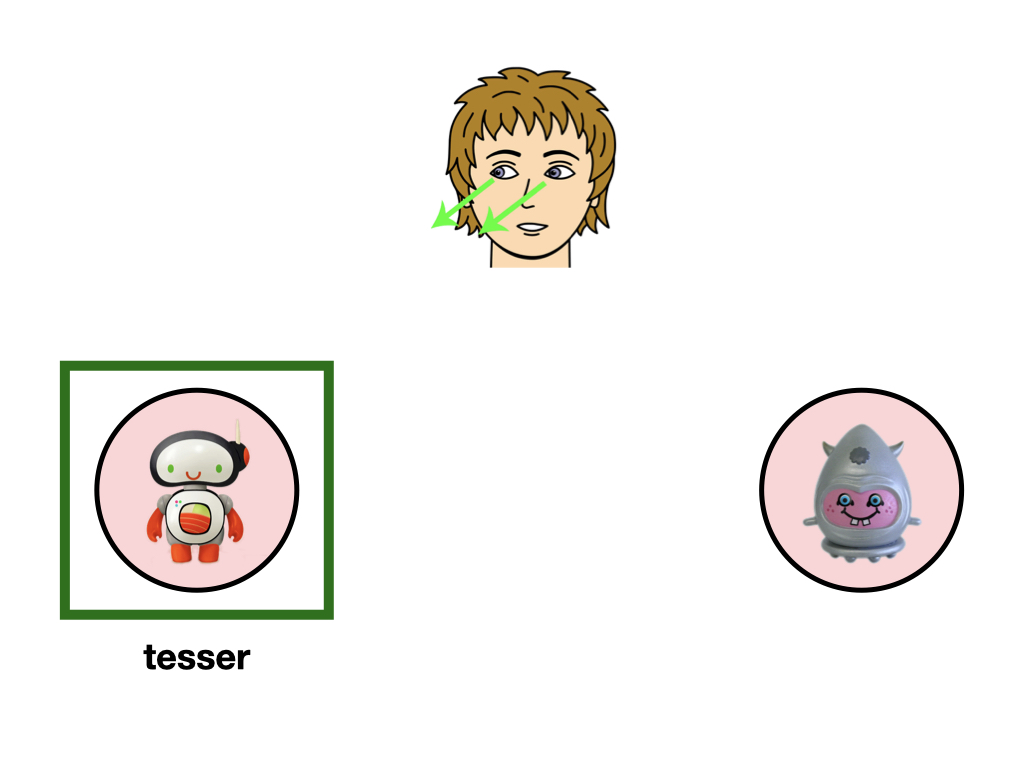
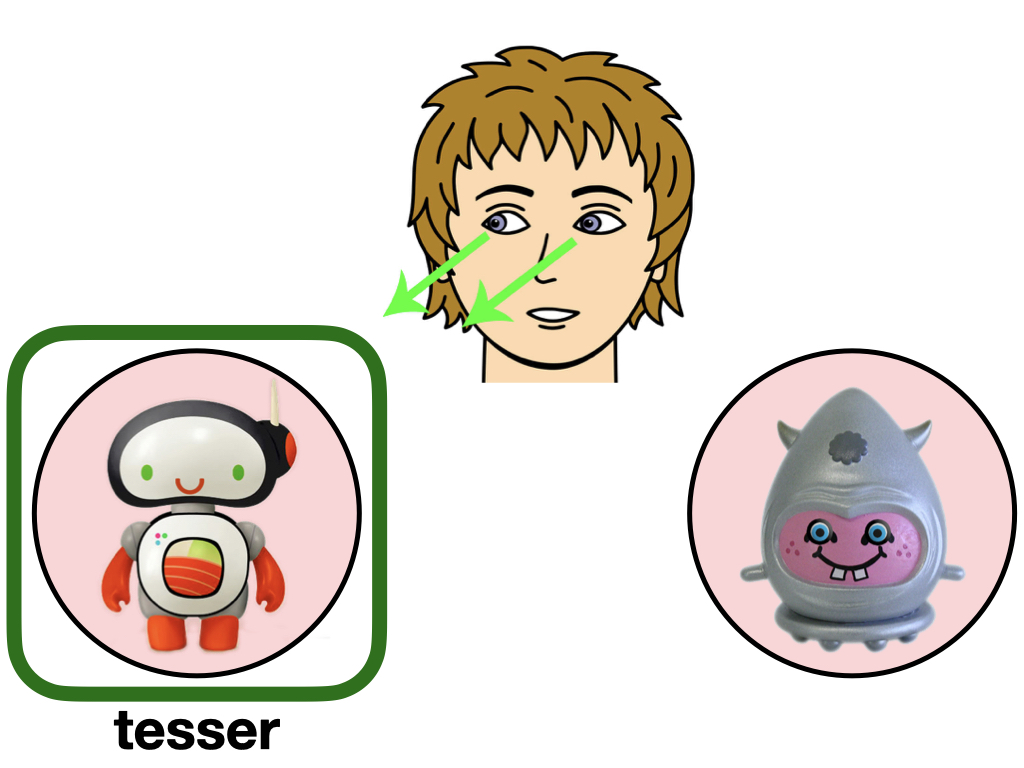
add me trial, various updates

diff --git a/mechanisms/index.html b/mechanisms/index.html
@@ -31,138 +31,45 @@
 </body>
 <script>
 
-// ORGANIZE SUBJECT ID & GENERAL PARAMETERS
-
-// generate a random subject ID (just to be safe)
-var subject_id = Math.floor(Math.random()*1000000);
-subject_id="p"+subject_id.toString();
-
-//general function for grabbing parameter from a URL
-function getParamFromURL( name ) {
-	name = name.replace(/[\[]/,"\\[").replace(/[\]]/,"\\]");
-	var regexS = "[\?&]"+name+"=([^&#]*)";
-	var regex = new RegExp( regexS );
-	var results = regex.exec( window.location.href );
-	if( results == null )
-		return "";
-	else
-		return results[1];
-}
-
-//for Amazon Mechanical Turk (workerId added to link via Qualtrics)
-//save workerID if it is part of the survey URL ?workerId=
-var workerId = getParamFromURL( 'workerId' );
-//otherwise just use the randomly generated subject ID
-if (workerId==="") {
-	workerId=subject_id;
-};
-//make sure that nobody can enter anything damaging or crazy for workerId
-workerId.replace(/[^A-Za-z0-9_]/g, "");
- 
-//set condition (tc)
-var condition_temp=getParamFromURL( 'cond' );
-//convert to more descriptive label (masked in URL to avoid biasing participant)
-if (condition_temp=="h") {
-	var condition="high";
-} else if (condition_temp=="m") {
-	var condition="medium"
-} else if (condition_temp=="l") {
-	var condition="low"
-} else {
-	var condition="high"
-};
-
-// record the condition assignment in the jsPsych data
-// this adds a property called 'subject', a property called workerId, and a condition property
-jsPsych.data.addProperties({
-	subject: subject_id,
-	condition: condition,
-	workerId: workerId
-});
-
-// DEFINE AND RANDOMIZE STIMULI
-//define word items
-var wordItems = ["beppo","finna","guffi", "kita", "noopy", "manu", "sibu", "tesser"];
-//define image items
-var items = [];
-for (i=1; i<=wordItems.length; i++){
-	item = "stims/"+ i + ".png"
-	items.push(item)
-};
-//stim names
-var stimNames = [];
-for (i=0; i<wordItems.length; i++){
-	name = "stim"+ i
-	stimNames.push(name)
-};
-//shuffle images and words	
-var itemsShuffled=jsPsych.randomization.shuffle(items);
-var wordsShuffled = jsPsych.randomization.shuffle(wordItems);
-
-//associate words and items (images) in a dictionary
-var stims = {};
-for (i =0; i<items.length; i++) {
-	//convert each item to a dictionary containing the image and the word // use normally
-	curObject = {image: itemsShuffled[i], word: wordsShuffled[i]};
-	//curObject = {image: items[i], word: wordItems[i]}
-	//add this dictionary to the overall stimulus dictionary
-	stims[stimNames[i]] = curObject;
-};
-
-
-// DEFINE TRAINING TRIALS
-
-var ITI = 500;
-
-
-//training trials
-var trainingList = [];
-
 // start with a general instruction
 
 var trial = {
 type: 'instructions',
 pages: [
-  'Welcome to this experiment. In this experiment you will learn names for aliens. There will be few different learning tasks as you go.<br><br>You will need to hear audio during the experiment, so make sure you are using an up-to-date browser (Firefox, Chrome, or Safari should all be good options). First, we will check that your audio is working properly. We will play you simple words and ask you to type in what you hear. Pay close attention - we will only accept HITs in which people pass this initial audio test. Make sure your audio is turned on, then click NEXT to start the audio test!',
+  'Welcome! This website will show you some of the <b>strategies babies use to learn new words</b>. <p style="text-align:center;"><img width="60%" display="block" margin-left="auto" margin-right="auto" src="stims/penguin_word.jpeg"></p><img width="300" height="200" align="right" display="block" margin-left="auto" margin-right="auto" src="stims/baby_computer.jpg">Babies learn thousands of words over their first few years of life. On average, they are learning multiple words per day! How do they do it? <br><br>There is probably not one single answer to this question. Babies use <u>many</u> different strategies and types of information to learn about word meanings. <br><br> In the next few pages, <b>we will show you three word learning strategies</b>. For each strategy, you will have a chance to guess new word meanings - can you learn as well as a baby? <br><br>It will take about 3-5 minutes to click through the examples. Click NEXT to get started!',
 ],
 show_clickable_nav: true
 }
+var timeline=[];
 
-trainingList.push(trial);
+timeline.push(trial);
 
-var audio_check = {
-	type: 'audio-check',
-	prompt: "Click on the Play button to hear an audio recording. Then enter the word you heard. Click the button to hear the sound again. Click on the Submit Answers button when you are finished <br>",
-	timeline: [
-		{stimulus: 'stims/apple.m4a'},
-		{stimulus: 'stims/ball.m4a'},
-	]
-};
-
-trainingList.push(audio_check);
-
-var trial = {
-type: 'instructions',
-pages: [
-  "Great! Now, let's begin with the experiment. In the first task, you will learn the names for 8 different alien creatures. On each trial, you will see two aliens and hear and read two names. At first, you won't know which name goes with which alien because the names appear <b>in random order</b>. Try to figure out over time which name goes with which alien. Please do not write any information down - just do your best to remember and learn the names as you go. Remember that you'll hear the name for each of the two aliens and read them on the screen, but the order of the names will be completely random (so, for example, the first name that appears does not necessarily go with the left alien). Make sure your audio is still on, then click NEXT to start learning!"
-],
-show_clickable_nav: true
-}
-
-trainingList.push(trial);
 
 // MUTUAL EXCLUSIVITY
+var me_test = {
+	type: 'image-test-2',
+	image1: "stims/penguin.png",
+	image2: "stims/6.png",
+	cue_image: "stims/woman_me.jpeg",
+	question1: "Imagine you see the two animals below - a bird-like animal and a strange alien.", 
+	question2: "Now, you hear an adult say the word noopy. Which of the two animals is the noopy?",
+	question3: "Click on the animal that you think is the noopy!",
+	label: "noopy",
+	targetLocation: 1,
+	targetImage: "stims/6.png"
+};
 
+timeline.push(me_test);
 
 // SOCIAL CUE TRIALS
-
-var timeline=[];
 
 var soc_test = {
 	type: 'image-test-2',
 	image1: "stims/12.png",
 	image2: "stims/10.png",
 	cue_image: "stims/eyes_down_left.jpeg",
+	cue_image_size: [172,200],
+	cue_image_pos_x: 350,
 	question1: "Next, imagine that the person below said the word tesser.", 
 	question2: "Can you figure it out which of the two aliens they are talking about?",
 	question3: "Click on the tesser!",
@@ -178,9 +85,9 @@ var soc_instructions = {
 	size: 400,
 	pages: [
 		'If you guessed that the alien on the left is the tesser, you guessed right!'+"<br>"
-        +'Babies can use <b style="font-size:20px">'+"social cues" +'</b> like where someone is looking to guess the meaning of new words.'
-		+'<p style="text-align:center;"><img src="stims/soc_cues.jpeg" alt="social cues" width="85%"></p>'
-		+'Click next to learn about another way that babies can learn new words.'
+        +'Babies can use <b style="font-size:20px">'+"social cues" +'</b> -- e.g., where someone is looking -- to guess the meaning of new words.'
+		+'<p style="text-align:center;"><img src="stims/soc_cues.jpeg" alt="social cues" width="70%"></p>'
+		+'Click NEXT to learn about another way that babies can learn new words.'
         ],
 	show_clickable_nav: true
 };
@@ -188,6 +95,20 @@ var soc_instructions = {
 timeline.push(soc_instructions);
 
 // CROSS_SITUATIONAL TRIALS
+
+var stat_instructions = {
+	type: 'instructions',
+	size: 400,
+	pages: [
+		'The next strategy babies can use is by paying attention to how different words and objects. go together. This means that babies need to <b>track statistics</b> between words and what people are talking about.'+"<br><br>"
+        +'For this next part, you will see different aliens appearing with different words. See if you can figure out the names of the different aliens. <b> Make sure your audio is turned on before starting.</b> <br><br>'
+		+'Click NEXT to start learning!'
+        ],
+	show_clickable_nav: true
+};
+
+timeline.push(stat_instructions);
+
 trainingList=[];
 	
 var prompt = {
@@ -262,9 +183,9 @@ var trial = {
 	location2: "right",
 	im1: "stims/3.png",
 	im2: "stims/7.png",
-	label1: "roozer",
+	label1: "kita",
 	label2: "guffi",
-	audio1: "stims/roozer.m4a",
+	audio1: "stims/kita.m4a",
 	audio2: "stims/guffi.m4a",
 	audio: "true"
  };
@@ -291,6 +212,9 @@ var test = {
 	targetLocation: 1,
 	targetImage: "stims/3.png"
 };
+
+testList.push(test_prompt);
+testList.push(test);
 	
 var crossit_trials=trainingList.concat(testList);
 
@@ -331,10 +255,11 @@ experimentFinal.push(final_instructions);
 
  
 //preload all images
-var imageSet = items;
+var imageSet = ["stims/woman_me.jpeg","stims/soc_cues.jpeg","stims/penguin.png","stims/dogeword.jpeg","stims/penguin_word.jpeg","stims/2.png","stims/3.png","stims/6.png","stims/5.png","stims/7.png","stims/10.png","stims/12.png"];
 
 //preload audio (if audio gets added at some later point)  
 var allAudio = [];
+wordItems = ["guffi","finna","leemu","noopy","kita","tesser"]
 for (var i = 0; i < wordItems.length; i++) {
 	allAudio.push("stims/"+wordItems[i]+".m4a")
 };

diff --git a/mechanisms/jspsych-comprehension-test-2.js b/mechanisms/jspsych-comprehension-test-2.js
@@ -32,14 +32,14 @@ jsPsych.plugins['comprehension-test-2'] = (function() {
 
       var paper = Snap("#jspsych-test-canvas");
 	  
-	  var circle1 = paper.circle(125, 325, 90);
+	  var circle1 = paper.circle(175, 325, 90);
 	  circle1.attr({
 		  fill: "#FFD3D6",
 		  stroke: "#000",
 		  strokeWidth: 5
 	  });
 	  
-	  var circle2 = paper.circle(725, 325, 90);
+	  var circle2 = paper.circle(675, 325, 90);
 	  circle2.attr({
 		  fill: "#FFD3D6",
 		  stroke: "#000",
@@ -48,8 +48,8 @@ jsPsych.plugins['comprehension-test-2'] = (function() {
 
 	  
 	  var imageLocations = {
-		  pos1: [50, 250],
-		  pos2: [650, 250]
+		  pos1: [100, 250],
+		  pos2: [600, 250]
 	  };
 	  
 	  var image1 = paper.image(trial.image1, imageLocations["pos1"][0], imageLocations["pos1"][1], trial.image_size[0],trial.image_size[1]);
@@ -145,7 +145,7 @@ jsPsych.plugins['comprehension-test-2'] = (function() {
 		setTimeout(function(){
 			display_element.html('');
 			jsPsych.finishTrial(trial_data);
-		},500);
+		},timing_post_trial);
 		
       };
   };	  

diff --git a/mechanisms/jspsych-image-test-2.js b/mechanisms/jspsych-image-test-2.js
@@ -17,6 +17,8 @@ jsPsych.plugins['image-test-2'] = (function() {
       trial.image_size = trial.image_size || [150, 150];
 	  //trial.audio = trial.audio || "stims/bleep.wav";
 	  trial.cue_image = trial.cue_image;
+	  trial.cue_image_size = trial.cue_image_size || [250,188];
+	  trial.cue_image_pos_x=trial.cue_image_pos_x || 350;
 	  trial.question1 = trial.question1 || "Where's the guffy?";
 	  trial.question2 = trial.question2 || "";
 	  trial.question3 = trial.question3 || "";
@@ -63,7 +65,7 @@ jsPsych.plugins['image-test-2'] = (function() {
 	  var text = paper.text(425, 50, trial.question1);
 	  var text2 = paper.text(425, 75, trial.question2);
 	  var text3 = paper.text(425, 110, trial.question3);
-	  var cue_image = paper.image(trial.cue_image, 350, 125, trial.image_size[0],trial.image_size[1]);
+	  var cue_image = paper.image(trial.cue_image, trial.cue_image_pos_x, 125,  trial.cue_image_size[0], trial.cue_image_size[1]);
 	  text.attr({
 		  "text-anchor": "middle",
 		  editable: true

diff --git a/mechanisms/jspsych-comprehension-test-prompt-2.js b/mechanisms/jspsych-comprehension-test-prompt-2.js
@@ -33,14 +33,14 @@ jsPsych.plugins['comprehension-test-prompt-2'] = (function() {
 
       var paper = Snap("#jspsych-test-canvas");
 	  
-	  var circle1 = paper.circle(125, 325, 90);
+	  var circle1 = paper.circle(175, 325, 90);
 	  circle1.attr({
 		  fill: "#FFD3D6",
 		  stroke: "#000",
 		  strokeWidth: 5
 	  });
 	  
-	  var circle2 = paper.circle(725, 325, 90);
+	  var circle2 = paper.circle(675, 325, 90);
 	  circle2.attr({
 		  fill: "#FFD3D6",
 		  stroke: "#000",
@@ -49,8 +49,8 @@ jsPsych.plugins['comprehension-test-prompt-2'] = (function() {
 
 	  
 	  var imageLocations = {
-		  pos1: [50, 250],
-		  pos2: [650, 250]
+		  pos1: [100, 250],
+		  pos2: [600, 250]
 	  };
 	  
 	  var image1 = paper.image(trial.image1, imageLocations["pos1"][0], imageLocations["pos1"][1], trial.image_size[0],trial.image_size[1]);
